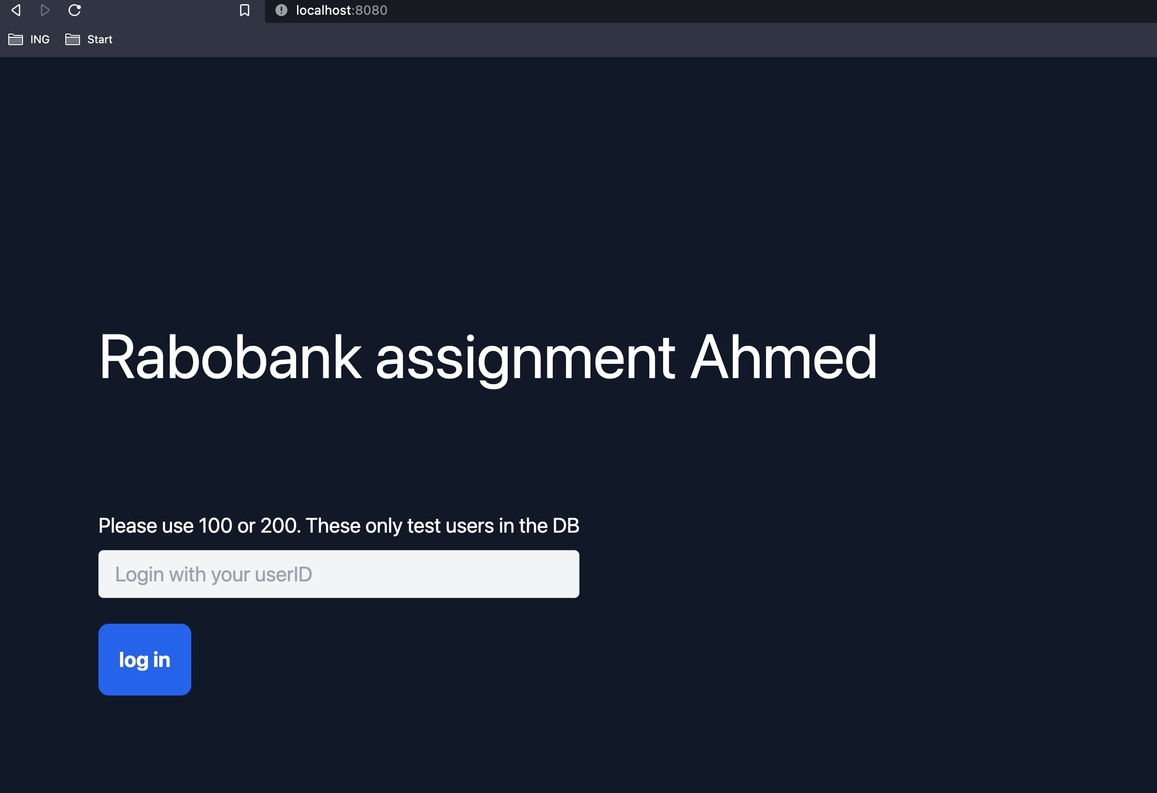
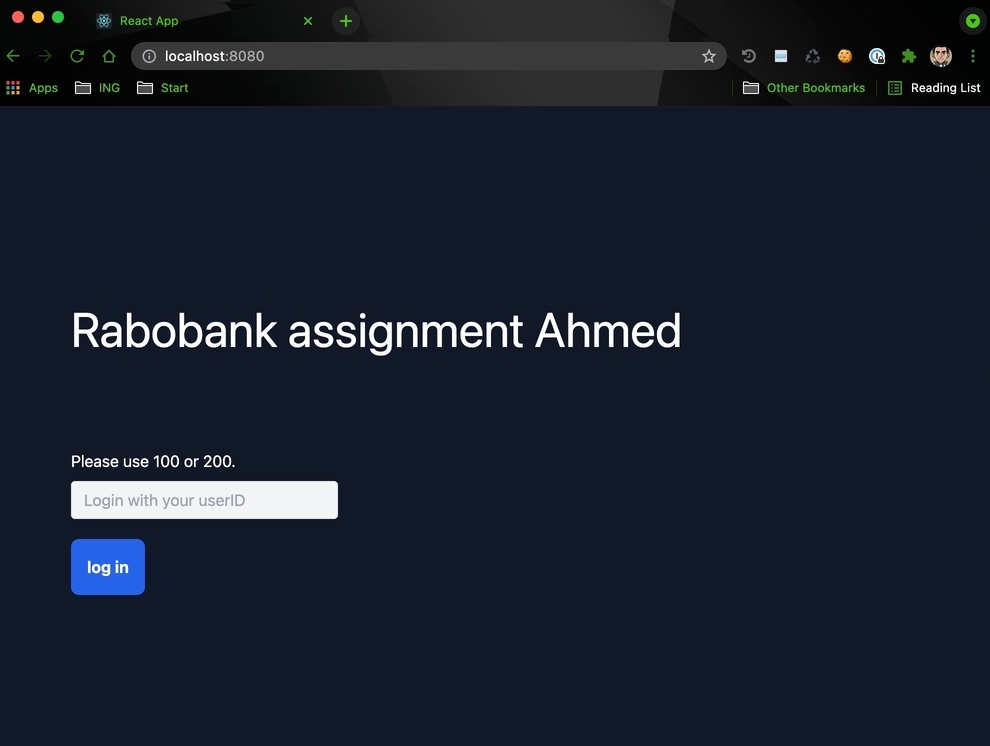
refactoring

diff --git a/api/src/main/frontend/src/components/AssignAccountModal.js b/api/src/main/frontend/src/components/AssignAccountModal.js
@@ -10,15 +10,20 @@ export const AssignAccountModal = ({selectedAccount, customerId}) => {
     const [authorizationType, setAuthorizationType] = useState(null);
 
     return (
-        <div className="inline-block align-bottom bg-white rounded-lg text-left overflow-hidden">
+        <div
+            className="inline-block align-bottom bg-white rounded-lg text-left overflow-hidden">
             <div className="bg-white px-10 py-20">
                 <div className="sm:flex sm:items-start">
-                    <div className="mx-auto flex-shrink-0 flex items-center justify-center h-12 w-12 rounded-full bg-red-100 sm:mx-0 sm:h-10 sm:w-10">
+                    <div
+                        className="mx-auto flex-shrink-0 flex items-center justify-center h-12 w-12 rounded-full bg-red-100 sm:mx-0 sm:h-10 sm:w-10">
                     </div>
-                    <div className="mt-3 text-center sm:mt-0 sm:ml-4 sm:text-left">
+                    <div
+                        className="mt-3 text-center sm:mt-0 sm:ml-4 sm:text-left">
                         <h3 className="mt-4 pb-3 text-2xl leading-6 font-medium text-gray-900">{selectedAccount}</h3>
-                        <h3 className="mt-4 text-lg leading-6 font-medium text-gray-900" id="modal-title">
-                            Please insert the customer that you want to authorize this account for:
+                        <h3 className="mt-4 text-lg leading-6 font-medium text-gray-900"
+                            id="modal-title">
+                            Please insert the customer that you want to
+                            authorize this account for:
                         </h3>
                         <div className="mt-4">
                             <input
@@ -30,19 +35,21 @@ export const AssignAccountModal = ({selectedAccount, customerId}) => {
                             />
                         </div>
                         <div className="mt-4">
-                            <DropDown setAuthorizationType={setAuthorizationType}/>
+                            <DropDown
+                                setAuthorizationType={setAuthorizationType}/>
                         </div>
                     </div>
                 </div>
             </div>
-            <div className="bg-gray-50 px-4 py-3 sm:px-6 sm:flex sm:flex-row-reverse">
+            <div
+                className="bg-gray-50 px-4 py-3 sm:px-6 sm:flex sm:flex-row-reverse">
                 <button type="button"
                         onClick={() => sendRequest(customerId, granteeId, selectedAccount, authorizationType)}
                         className="w-full inline-flex justify-center rounded-md border border-transparent shadow-sm px-4 py-2 bg-blue-600 text-base font-medium text-white hover:bg-blue-400 focus:outline-none focus:ring-2 focus:ring-offset-2 focus:ring-red-500 sm:ml-3 sm:w-auto sm:text-sm">
                     Assign Account
                 </button>
                 <button type="button"
-                        onClick={() =>  window.location.reload()}
+                        onClick={() => window.location.reload()}
                         className="mt-3 w-full inline-flex justify-center rounded-md border border-gray-300 shadow-sm px-4 py-2 bg-white text-base font-medium text-gray-700 hover:bg-gray-50 focus:outline-none focus:ring-2 focus:ring-offset-2 focus:ring-indigo-500 sm:mt-0 sm:ml-3 sm:w-auto sm:text-sm">
                     Cancel
                 </button>
@@ -58,6 +65,18 @@ function sendRequest(customerId, granteeId, selectedAccount, authorizationType) 
         "accountNumber": selectedAccount,
         "authorizationType": authorizationType,
     };
+
+    if (granteeId === null || authorizationType === null) {
+        const error = {
+            response: {
+                data: {
+                    httpStatus: 403,
+                    errorMessage: "All fields are required!"
+                }
+            }
+        }
+        return ErrorAlert(error);
+    }
 
     authorizeAccount(requestAuthorizeAccount)
         .then(() => {

diff --git a/api/src/main/frontend/src/components/DropDown.js b/api/src/main/frontend/src/components/DropDown.js
@@ -24,10 +24,10 @@ export const DropDown = ({setAuthorizationType}) => {
             </button>
             {showDropDownContent &&
             <div className="absolute w-48 flex flex-col py-2 mt-1 text-gray-700 bg-white border border-black rounded-lg">
-                <a className="px-3 py-1 cursor-pointer hover:bg-blue-500"
-                   onClick={() => hideDropDownInfo("READ")}>READ</a>
-                <a className="px-3 py-1 cursor-pointer hover:bg-blue-500"
-                   onClick={() => hideDropDownInfo("WRITE")}>WRITE</a>
+                <div className="px-3 py-1 cursor-pointer hover:bg-blue-500"
+                   onClick={() => hideDropDownInfo("READ")}>READ</div>
+                <div className="px-3 py-1 cursor-pointer hover:bg-blue-500"
+                   onClick={() => hideDropDownInfo("WRITE")}>WRITE</div>
             </div>
             }
         </div>

diff --git a/api/src/main/frontend/src/App.js b/api/src/main/frontend/src/App.js
@@ -31,7 +31,7 @@ export const App = () => {
                 <CustomerAccountList customerAccounts={customerAccounts} customerId={customerId}/>
                 : <form onSubmit={handleSubmit}>
                     <div className="pt-24 pb-10">
-                        <h2 className="pb-2 text-white">Please use 100 or 200. These only test users in the DB</h2>
+                        <h2 className="pb-2 text-white">Please use 100 or 200.</h2>
                         <input
                             className="bg-gray-100 appearance-none border rounded w-full py-2 px-3 text-gray-700 leading-tight focus:outline-none focus:shadow-outline"
                             id="title"

diff --git a/api/src/main/frontend/src/common/alerts/ErrorAlert.js b/api/src/main/frontend/src/common/alerts/ErrorAlert.js
@@ -1,10 +1,8 @@
 import Swal from 'sweetalert2';
 
 export const ErrorAlert = (err) => {
-    if (err.response.data.httpStatus === 403) {
-        Swal.fire(err.response.data.errorMessage, "", 'warning');
-    }
-    if (err.response.data.httpStatus === 409) {
+    console.log(err.response.data.httpStatus)
+    if (err.response.data.httpStatus === 403 || err.response.data.httpStatus === 409) {
         Swal.fire(err.response.data.errorMessage, "", 'warning');
     } else {
         Swal.fire('Sorry! There is something wrong with the server', 'Try one more time, or grab a coffee ☕', 'error');
